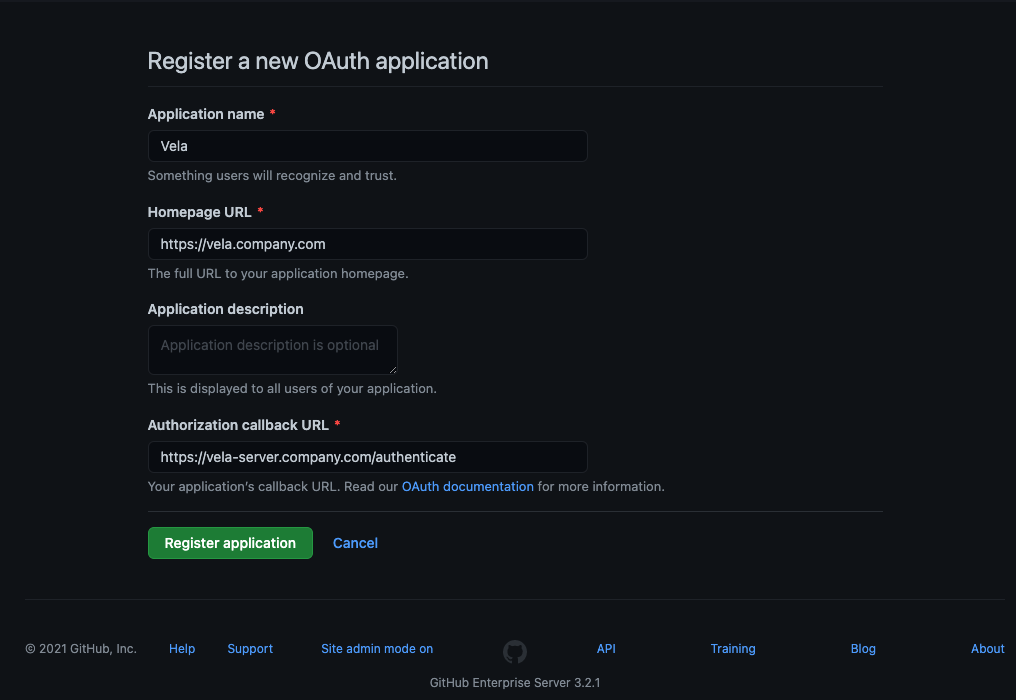
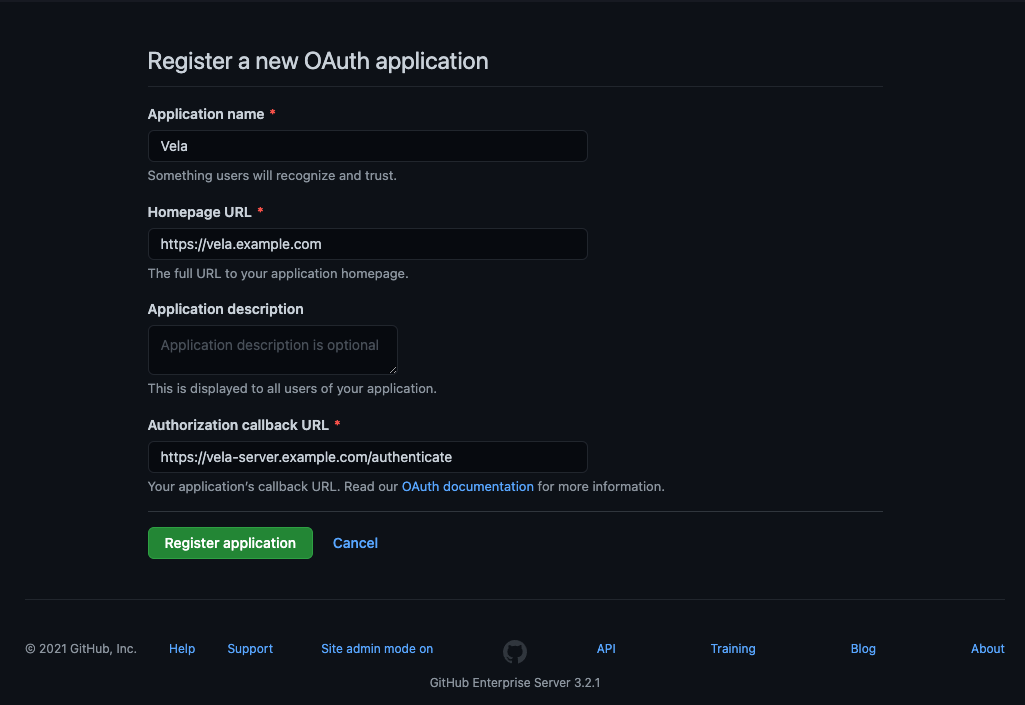
chore: update company.com -> example.com per feedback

diff --git a/content/administration/server/reference/compiler.md b/content/administration/server/reference/compiler.md
@@ -65,7 +65,7 @@ The below configuration displays an example of starting the Vela server that wil
 ```diff
 $ docker run \
   --detach=true \
-  --env=VELA_ADDR=https://vela-server.company.com \
+  --env=VELA_ADDR=https://vela-server.example.com \
 + --env=VELA_COMPILER_GITHUB=true \
 + --env=VELA_COMPILER_TOKEN=<github-personal-access-token> \
 + --env=VELA_COMPILER_URL=https://github.com \
@@ -76,7 +76,7 @@ $ docker run \
   --env=VELA_SECRET=<shared-secret> \
   --env=VELA_SCM_CLIENT=<oauth-client-id> \
   --env=VELA_SCM_SECRET=<oauth-client-secret> \
-  --env=VELA_WEBUI_ADDR=https://vela.company.com \
+  --env=VELA_WEBUI_ADDR=https://vela.example.com \
   --name=server \
   --publish=80:80 \
   --publish=443:443 \
@@ -101,10 +101,10 @@ The below configuration displays an example of starting the Vela server that wil
 ```diff
 $ docker run \
   --detach=true \
-  --env=VELA_ADDR=https://vela-server.company.com \
+  --env=VELA_ADDR=https://vela-server.example.com \
 + --env=VELA_COMPILER_GITHUB=true \
 + --env=VELA_COMPILER_TOKEN=<github-personal-access-token> \
-+ --env=VELA_COMPILER_URL=https://git.company.com \
++ --env=VELA_COMPILER_URL=https://git.example.com \
   --env=VELA_DATABASE_ENCRYPTION_KEY=<encryption-key> \
   --env=VELA_QUEUE_DRIVER=redis \
   --env=VELA_QUEUE_ADDR=redis://<password>@<hostname>:<port>/<database> \
@@ -112,7 +112,7 @@ $ docker run \
   --env=VELA_SECRET=<shared-secret> \
   --env=VELA_SCM_CLIENT=<oauth-client-id> \
   --env=VELA_SCM_SECRET=<oauth-client-secret> \
-  --env=VELA_WEBUI_ADDR=https://vela.company.com \
+  --env=VELA_WEBUI_ADDR=https://vela.example.com \
   --name=server \
   --publish=80:80 \
   --publish=443:443 \

diff --git a/content/administration/server/reference/database.md b/content/administration/server/reference/database.md
@@ -54,7 +54,7 @@ The below configuration displays an example of starting the Vela server that wil
 ```diff
 $ docker run \
   --detach=true \
-  --env=VELA_ADDR=https://vela-server.company.com \
+  --env=VELA_ADDR=https://vela-server.example.com \
 + --env=VELA_DATABASE_DRIVER=postgres \
 + --env=VELA_DATABASE_ADDR=postgres://<username>:<password>@<hostname>:<port>/<database> \
   --env=VELA_DATABASE_ENCRYPTION_KEY=<encryption-key> \
@@ -64,7 +64,7 @@ $ docker run \
   --env=VELA_SECRET=<shared-secret> \
   --env=VELA_SCM_CLIENT=<oauth-client-id> \
   --env=VELA_SCM_SECRET=<oauth-client-secret> \
-  --env=VELA_WEBUI_ADDR=https://vela.company.com \
+  --env=VELA_WEBUI_ADDR=https://vela.example.com \
   --name=server \
   --publish=80:80 \
   --publish=443:443 \
@@ -83,7 +83,7 @@ The below configuration displays an example of starting the Vela server that wil
 ```diff
 $ docker run \
   --detach=true \
-  --env=VELA_ADDR=https://vela-server.company.com \
+  --env=VELA_ADDR=https://vela-server.example.com \
 + --env=VELA_DATABASE_DRIVER=sqlite3 \
 + --env=VELA_DATABASE_ADDR=vela.sqlite \
   --env=VELA_DATABASE_ENCRYPTION_KEY=<encryption-key> \
@@ -93,7 +93,7 @@ $ docker run \
   --env=VELA_SECRET=<shared-secret> \
   --env=VELA_SCM_CLIENT=<oauth-client-id> \
   --env=VELA_SCM_SECRET=<oauth-client-secret> \
-  --env=VELA_WEBUI_ADDR=https://vela.company.com \
+  --env=VELA_WEBUI_ADDR=https://vela.example.com \
   --name=server \
   --publish=80:80 \
   --publish=443:443 \

diff --git a/content/administration/worker/reference/runtime.md b/content/administration/worker/reference/runtime.md
@@ -48,9 +48,9 @@ $ docker run \
   --env=VELA_QUEUE_DRIVER=redis \
   --env=VELA_QUEUE_ADDR=redis://<password>@<hostname>:<port>/<database> \
 + --env=VELA_RUNTIME_DRIVER=docker \
-  --env=VELA_SERVER_ADDR=https://vela-server.company.com \
+  --env=VELA_SERVER_ADDR=https://vela-server.example.com \
   --env=VELA_SERVER_SECRET=<shared-secret> \
-  --env=VELA_WORKER_ADDR=https://vela-worker.company.com \
+  --env=VELA_WORKER_ADDR=https://vela-worker.example.com \
   --name=worker \
   --publish=80:80 \
   --publish=443:443 \
@@ -79,9 +79,9 @@ $ docker run \
 + --env=VELA_RUNTIME_DRIVER=kubernetes \
 + --env=VELA_RUNTIME_CONFIG=/root/.kube/config \
 + --env=VELA_RUNTIME_NAMESPACE=vela \
-  --env=VELA_SERVER_ADDR=https://vela-server.company.com \
+  --env=VELA_SERVER_ADDR=https://vela-server.example.com \
   --env=VELA_SERVER_SECRET=<shared-secret> \
-  --env=VELA_WORKER_ADDR=https://vela-worker.company.com \
+  --env=VELA_WORKER_ADDR=https://vela-worker.example.com \
   --name=worker \
   --publish=80:80 \
   --publish=443:443 \

diff --git a/content/administration/server/reference/secret.md b/content/administration/server/reference/secret.md
@@ -53,18 +53,18 @@ The below configuration displays an example of starting the Vela server that wil
 ```diff
 $ docker run \
   --detach=true \
-  --env=VELA_ADDR=https://vela-server.company.com \
+  --env=VELA_ADDR=https://vela-server.example.com \
   --env=VELA_DATABASE_ENCRYPTION_KEY=<encryption-key> \
   --env=VELA_QUEUE_DRIVER=redis \
   --env=VELA_QUEUE_ADDR=redis://<password>@<hostname>:<port>/<database> \
   --env=VELA_PORT=443 \
   --env=VELA_SECRET=<shared-secret> \
 + --env=VELA_SECRET_VAULT=true \
-+ --env=VELA_SECRET_VAULT_ADDR=https://vault.company.com \
++ --env=VELA_SECRET_VAULT_ADDR=https://vault.example.com \
 + --env=VELA_SECRET_VAULT_TOKEN=<vault-token>
   --env=VELA_SCM_CLIENT=<oauth-client-id> \
   --env=VELA_SCM_SECRET=<oauth-client-secret> \
-  --env=VELA_WEBUI_ADDR=https://vela.company.com \
+  --env=VELA_WEBUI_ADDR=https://vela.example.com \
   --name=server \
   --publish=80:80 \
   --publish=443:443 \

diff --git a/content/administration/server/docker/_index.md b/content/administration/server/docker/_index.md
@@ -91,7 +91,7 @@ You can use the [`docker run` command](https://docs.docker.com/engine/reference/
 ```shell
 $ docker run \
   --detach=true \
-  --env=VELA_ADDR=https://vela-server.company.com \
+  --env=VELA_ADDR=https://vela-server.example.com \
   --env=VELA_DATABASE_ENCRYPTION_KEY=<encryption-key> \
   --env=VELA_QUEUE_DRIVER=redis \
   --env=VELA_QUEUE_ADDR=redis://<password>@<hostname>:<port>/<database> \
@@ -99,7 +99,7 @@ $ docker run \
   --env=VELA_SECRET=<shared-secret> \
   --env=VELA_SCM_CLIENT=<oauth-client-id> \
   --env=VELA_SCM_SECRET=<oauth-client-secret> \
-  --env=VELA_WEBUI_ADDR=https://vela.company.com \
+  --env=VELA_WEBUI_ADDR=https://vela.example.com \
   --name=server \
   --publish=80:80 \
   --publish=443:443 \

diff --git a/content/administration/server/reference/queue.md b/content/administration/server/reference/queue.md
@@ -46,7 +46,7 @@ The below configuration displays an example of starting the Vela server that wil
 ```diff
 $ docker run \
   --detach=true \
-  --env=VELA_ADDR=https://vela-server.company.com \
+  --env=VELA_ADDR=https://vela-server.example.com \
   --env=VELA_DATABASE_ENCRYPTION_KEY=<encryption-key> \
 + --env=VELA_QUEUE_DRIVER=redis \
 + --env=VELA_QUEUE_ADDR=redis://<password>@<hostname>:<port>/<database> \
@@ -54,7 +54,7 @@ $ docker run \
   --env=VELA_SECRET=<shared-secret> \
   --env=VELA_SCM_CLIENT=<oauth-client-id> \
   --env=VELA_SCM_SECRET=<oauth-client-secret> \
-  --env=VELA_WEBUI_ADDR=https://vela.company.com \
+  --env=VELA_WEBUI_ADDR=https://vela.example.com \
   --name=server \
   --publish=80:80 \
   --publish=443:443 \

diff --git a/content/administration/worker/reference/executor.md b/content/administration/worker/reference/executor.md
@@ -45,9 +45,9 @@ $ docker run \
 + --env=VELA_EXECUTOR_DRIVER=linux \
   --env=VELA_QUEUE_DRIVER=redis \
   --env=VELA_QUEUE_ADDR=redis://<password>@<hostname>:<port>/<database> \
-  --env=VELA_SERVER_ADDR=https://vela-server.company.com \
+  --env=VELA_SERVER_ADDR=https://vela-server.example.com \
   --env=VELA_SERVER_SECRET=<shared-secret> \
-  --env=VELA_WORKER_ADDR=https://vela-worker.company.com \
+  --env=VELA_WORKER_ADDR=https://vela-worker.example.com \
   --name=worker \
   --publish=80:80 \
   --publish=443:443 \

diff --git a/content/administration/worker/docker/_index.md b/content/administration/worker/docker/_index.md
@@ -55,9 +55,9 @@ $ docker run \
   --detach=true \
   --env=VELA_QUEUE_DRIVER=redis \
   --env=VELA_QUEUE_ADDR=redis://<password>@<hostname>:<port>/<database> \
-  --env=VELA_SERVER_ADDR=https://vela-server.company.com \
+  --env=VELA_SERVER_ADDR=https://vela-server.example.com \
   --env=VELA_SERVER_SECRET=<shared-secret> \
-  --env=VELA_WORKER_ADDR=https://vela-worker.company.com \
+  --env=VELA_WORKER_ADDR=https://vela-worker.example.com \
   --name=worker \
   --publish=80:80 \
   --publish=443:443 \

diff --git a/content/administration/worker/reference/queue.md b/content/administration/worker/reference/queue.md
@@ -48,9 +48,9 @@ $ docker run \
   --detach=true \
 + --env=VELA_QUEUE_DRIVER=redis \
 + --env=VELA_QUEUE_ADDR=redis://<password>@<hostname>:<port>/<database> \
-  --env=VELA_SERVER_ADDR=https://vela-server.company.com \
+  --env=VELA_SERVER_ADDR=https://vela-server.example.com \
   --env=VELA_SERVER_SECRET=<shared-secret> \
-  --env=VELA_WORKER_ADDR=https://vela-worker.company.com \
+  --env=VELA_WORKER_ADDR=https://vela-worker.example.com \
   --name=worker \
   --publish=80:80 \
   --publish=443:443 \

diff --git a/content/administration/ui/docker/_index.md b/content/administration/ui/docker/_index.md
@@ -47,7 +47,7 @@ You can use the [`docker run` command](https://docs.docker.com/engine/reference/
 ```shell
 $ docker run \
   --detach=true \
-  --env=VELA_API=https://vela-server.company.com \
+  --env=VELA_API=https://vela-server.example.com \
   --name=ui \
   --publish=80:80 \
   --publish=443:443 \
